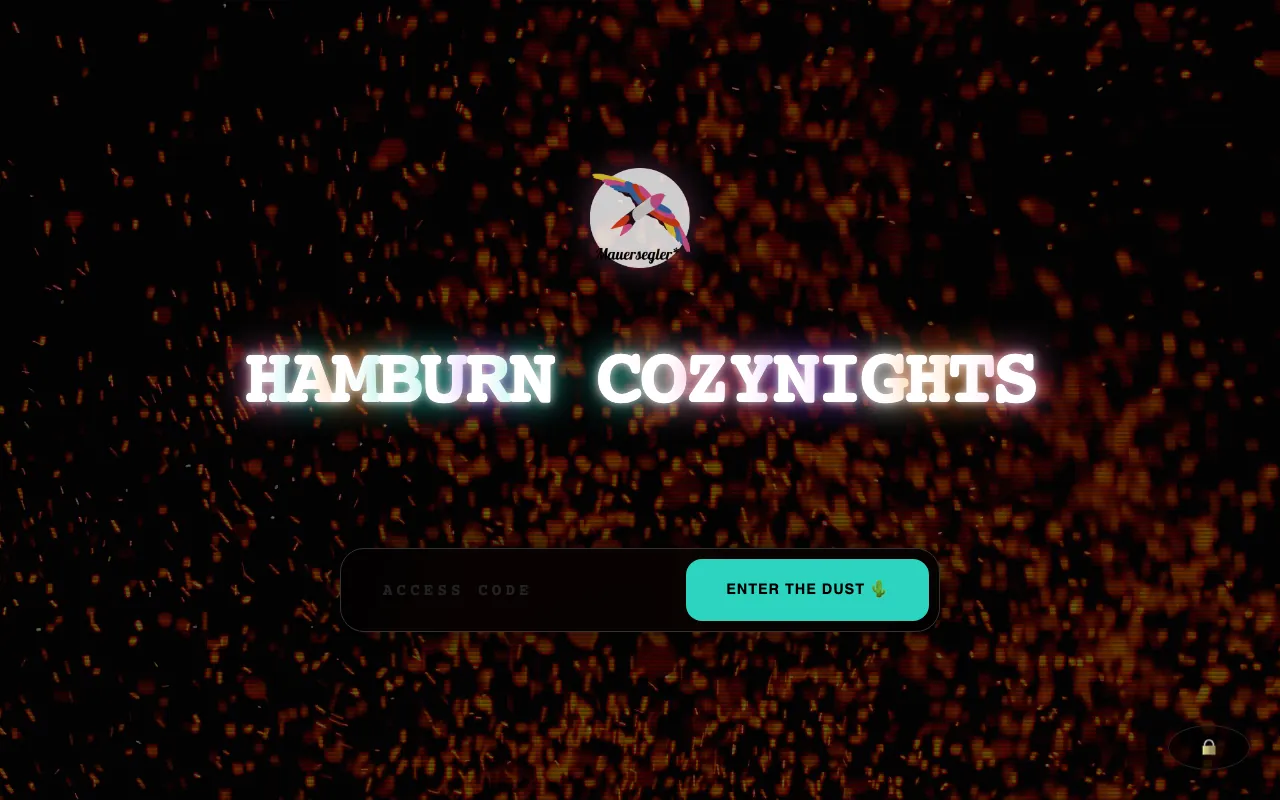
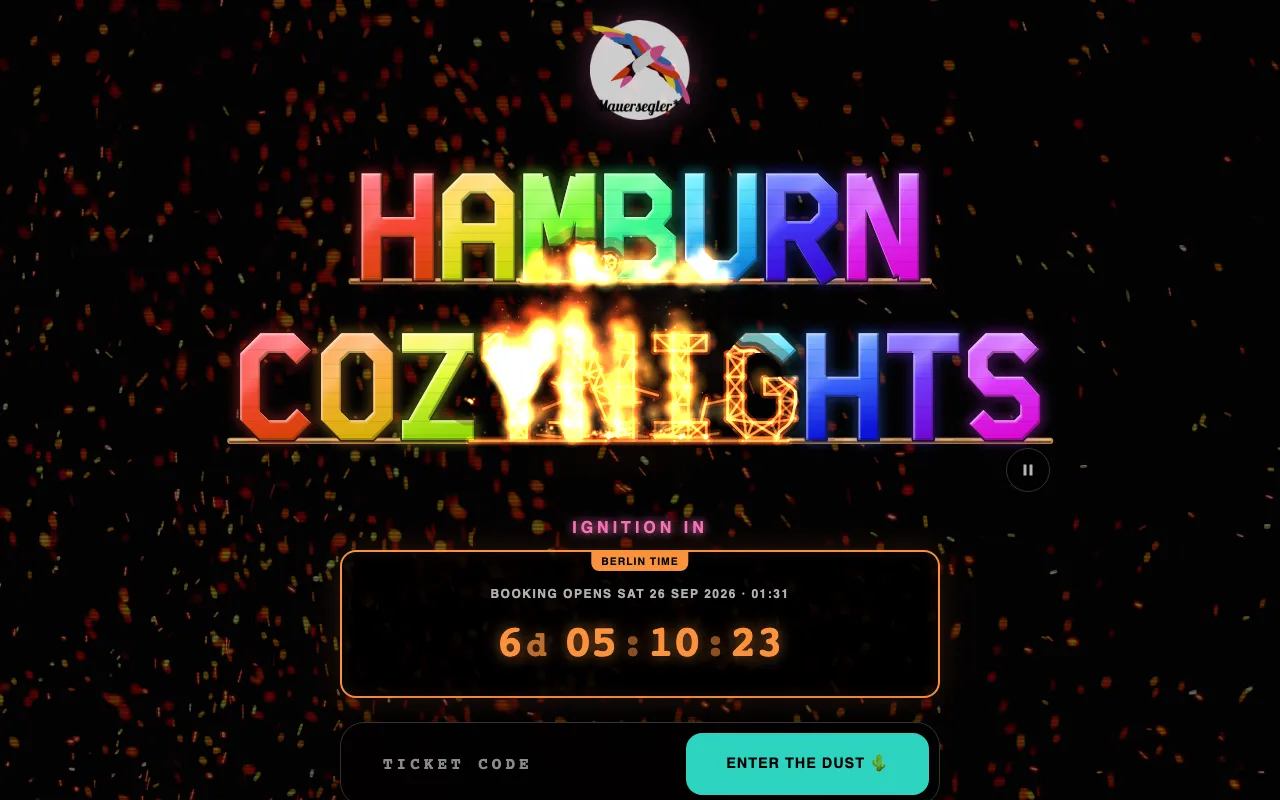
feat(start): big booking countdown between the title and the ticket-code field
The slim pill at the top of the start page was easy to miss. The start page
now shows the map's countdown box right above the ticket-code field, as wide
as the field: "IGNITION IN" with the opening time until booking opens, and
"BOOKING CLOSES IN" while Live Booking runs (pink; red in the last hour, like
the bar). When the time comes, the page reloads its data and switches by
itself.

CountdownTimer gets a `kind` prop (opens | closes) and takes its digit size
from --countdown-digits, so the map's box is unchanged; the date line wraps
evenly on phones. showCountdownBar() no longer shows the slim bar on `/`
(everywhere else as before) and the hero no longer reserves the bar's height.
Docs: the phases and booking guides say where the countdown appears; the
start page screenshot is current again.

diff --git a/hamburn-cozynights/src/lib/components/CountdownTimer.svelte b/hamburn-cozynights/src/lib/components/CountdownTimer.svelte
@@ -5,10 +5,19 @@
 	import CountdownDigits from './CountdownDigits.svelte';
 	import { formatBerlin, resyncDelay, toMs } from '$lib/booking-phase';
 
-	/** The big countdown on the guest map until booking opens. */
+	/**
+	 * The big countdown box: on the start page between the title and the
+	 * ticket-code field (until booking opens, and while it is live until it
+	 * closes), and on the guest map until booking opens. The page around it
+	 * sets the digit size with --countdown-digits.
+	 */
 	export let targetDate: string;
+	/** Counting down to the opening of booking, or to its closing. */
+	export let kind: 'opens' | 'closes' = 'opens';
 
 	const dispatch = createEventDispatcher<{ elapsed: void }>();
+	/** The last hour before booking closes turns the box red. */
+	const URGENT_MS = 60 * 60 * 1000;
 
 	let now = Date.now();
 	let interval: ReturnType<typeof setInterval> | undefined;
@@ -26,8 +35,9 @@
 
 	$: target = toMs(targetDate);
 	$: remaining = target === null ? 0 : target - now;
-	// Tell the page, so it can reload its data and open the booking; again
-	// after a while if the server hasn't opened yet (this clock runs ahead).
+	$: urgent = kind === 'closes' && remaining < URGENT_MS;
+	// Tell the page, so it can reload its data and open (or close) the booking;
+	// again after a while if the server hasn't switched yet (this clock runs ahead).
 	$: if (browser && target !== null && remaining <= 0) {
 		if (elapsedFor !== targetDate) {
 			elapsedFor = targetDate;
@@ -44,9 +54,11 @@
 	$: targetLabel = formatBerlin(targetDate);
 </script>
 
-<div class="countdown-wrapper" in:fade>
+<div class="countdown-wrapper {kind}" class:urgent in:fade>
 	<div class="timezone-badge">BERLIN TIME</div>
-	<span class="label">BOOKING OPENS {targetLabel.toUpperCase()}</span>
+	<span class="label"
+		>{kind === 'closes' ? 'LIVE BOOKING ENDS' : 'BOOKING OPENS'} {targetLabel.toUpperCase()}</span
+	>
 	<span class="timer" role="timer" aria-live="off">
 		{#if target === null}
 			…
@@ -60,28 +72,41 @@
 
 <style>
 	.countdown-wrapper {
+		--accent: #fb923c;
+		--accent-rgb: 251, 146, 60;
 		display: flex;
 		flex-direction: column;
 		align-items: center;
 		background: rgba(0, 0, 0, 0.85);
 		padding: 1.75rem clamp(1rem, 5vw, 2.5rem) 1.25rem;
 		border-radius: 16px;
-		border: 2px solid #fb923c;
+		border: 2px solid var(--accent);
 		box-shadow:
-			0 0 30px rgba(251, 146, 60, 0.15),
-			inset 0 0 15px rgba(251, 146, 60, 0.1);
+			0 0 30px rgba(var(--accent-rgb), 0.15),
+			inset 0 0 15px rgba(var(--accent-rgb), 0.1);
 		min-width: min(240px, 100%);
 		max-width: 100%;
 		text-align: center;
 		position: relative;
 		overflow: hidden;
+		transition:
+			border-color 0.4s,
+			box-shadow 0.4s;
+	}
+	.countdown-wrapper.closes {
+		--accent: #f472b6;
+		--accent-rgb: 244, 114, 182;
+	}
+	.countdown-wrapper.urgent {
+		--accent: #f87171;
+		--accent-rgb: 248, 113, 113;
 	}
 	.timezone-badge {
 		position: absolute;
 		top: 0;
 		left: 50%;
 		transform: translateX(-50%);
-		background: #fb923c;
+		background: var(--accent);
 		color: #000;
 		font-size: 0.65rem;
 		font-weight: 900;
@@ -98,13 +123,15 @@
 		line-height: 1.5;
 		margin-top: 5px;
 		margin-bottom: 5px;
+		/* On phones the date wraps: two even lines, not a lonely "01:04". */
+		text-wrap: balance;
 	}
 	.timer {
-		font-size: clamp(1.25rem, 6.5vw, 1.75rem);
+		font-size: var(--countdown-digits, clamp(1.25rem, 6.5vw, 1.75rem));
 		font-weight: 900;
-		color: #fb923c;
+		color: var(--accent);
 		font-family: 'JetBrains Mono', monospace;
-		text-shadow: 0 0 15px rgba(251, 146, 60, 0.6);
+		text-shadow: 0 0 15px rgba(var(--accent-rgb), 0.6);
 		white-space: nowrap;
 	}
 </style>

diff --git a/hamburn-cozynights/src/routes/+page.svelte b/hamburn-cozynights/src/routes/+page.svelte
@@ -1,8 +1,11 @@
 <script lang="ts">
 	import { enhance } from '$app/forms';
+	import { invalidateAll } from '$app/navigation';
 	import { page } from '$app/stores';
 	import { onMount, tick } from 'svelte';
 	import { fade, fly } from 'svelte/transition';
+	import { countdownKind } from '$lib/booking-phase';
+	import CountdownTimer from '$lib/components/CountdownTimer.svelte';
 	import EffigyTitle from '$lib/components/EffigyTitle.svelte';
 	import LegalLinks from '$lib/components/LegalLinks.svelte';
 	import MadeInHamburg from '$lib/components/MadeInHamburg.svelte';
@@ -49,6 +52,12 @@
 	let isSubmitting = false;
 
 	$: errorMessage = clientError || (isSubmitting ? '' : (form?.error ?? ''));
+
+	// The big countdown between the title and the ticket-code field: until
+	// booking opens, and while it is live until it closes. It replaces the slim
+	// bar on this page (showCountdownBar). When it ends, the page data is
+	// reloaded and the server says which phase it is now.
+	$: countdown = countdownKind(data.booking.phase, data.booking.next);
 
 	// Guest pages send visitors here when the ticket-code cookie is missing or stale.
 	$: loginHint =
@@ -108,6 +117,19 @@
 		<div class="title-container">
 			<EffigyTitle bind:paused={motionPaused} />
 		</div>
+
+		{#if countdown && data.booking.next}
+			<div class="booking-countdown" in:fly={{ y: 20, delay: 750, duration: 600 }}>
+				<h2 class="countdown-heading">
+					{countdown === 'closes' ? 'BOOKING CLOSES IN' : 'IGNITION IN'}
+				</h2>
+				<CountdownTimer
+					targetDate={data.booking.next.at}
+					kind={countdown}
+					on:elapsed={() => invalidateAll()}
+				/>
+			</div>
+		{/if}
 
 		<div class="login-module" in:fly={{ y: 30, delay: 900, duration: 600 }}>
 			{#if loginHint && !errorMessage}
@@ -236,9 +258,8 @@
 <style>
 	.hero {
 		position: relative;
-		/* minus the booking countdown bar on top, if shown (+layout.svelte) */
-		min-height: calc(100vh - var(--booking-bar-height, 0px));
-		min-height: calc(100dvh - var(--booking-bar-height, 0px));
+		min-height: 100vh;
+		min-height: 100dvh;
 		width: 100%;
 		display: flex;
 		flex-direction: column;
@@ -304,6 +325,28 @@
 		position: relative;
 		width: 100%;
 		margin: clamp(0.5rem, 4vw, 2.5rem) 0 clamp(3.75rem, 9vh, 5.5rem);
+	}
+
+	/* The big booking countdown: between the title and the ticket-code field,
+	   as wide as the field. It replaces the slim bar on this page. */
+	.booking-countdown {
+		--countdown-digits: clamp(1.75rem, 8vw, 2.75rem);
+		width: 100%;
+		max-width: 600px;
+		display: flex;
+		flex-direction: column;
+		gap: 0.6rem;
+		margin-bottom: clamp(1.25rem, 3vh, 2rem);
+	}
+
+	/* Same laser look as the heading over the map's countdown. */
+	.countdown-heading {
+		margin: 0;
+		font-size: 1rem;
+		font-weight: 900;
+		letter-spacing: 4px;
+		color: #f472b6;
+		text-shadow: 0 0 10px currentColor;
 	}
 
 	.login-module {

diff --git a/hamburn-cozynights/tests/booking-phase.test.ts b/hamburn-cozynights/tests/booking-phase.test.ts
@@ -298,7 +298,7 @@ describe('what guests see of the window', () => {
 		);
 	});
 
-	it('shows the slim bar everywhere but on the staging map, which counts down itself', () => {
+	it('shows the slim bar everywhere but where the page counts down itself', () => {
 		const opens = nextTransition(armed, NOW);
 		expect(showCountdownBar('staging', opens, '/map')).toBe(false);
 		expect(showCountdownBar('staging', opens, '/house/x')).toBe(true);
@@ -307,6 +307,10 @@ describe('what guests see of the window', () => {
 		const closes = nextTransition({ ...armed, basePhase: 'live', opensAt: at(-DAY) }, NOW);
 		expect(showCountdownBar('live', closes, '/map')).toBe(true);
 		expect(showCountdownBar('staging', null, '/house/x')).toBe(false);
+		// the start page shows the big countdown above the ticket-code field, both kinds
+		expect(showCountdownBar('staging', opens, '/')).toBe(false);
+		expect(showCountdownBar('closed', opens, '/')).toBe(false);
+		expect(showCountdownBar('live', closes, '/')).toBe(false);
 	});
 
 	it('words the own-spot note by phase', () => {

diff --git a/hamburn-cozynights/src/lib/booking-phase.ts b/hamburn-cozynights/src/lib/booking-phase.ts
@@ -143,9 +143,10 @@ export function openingCountdownAt(
 }
 
 /**
- * Whether the slim countdown bar shows on a page. The map draws its own big
- * "IGNITION IN" countdown, but only in Staging: in Closed with a later window
- * armed, the bar is the only countdown it has.
+ * Whether the slim countdown bar shows on a page. The start page always draws
+ * the big countdown itself (above the ticket-code field), the map only its
+ * "IGNITION IN" in Staging: in Closed with a later window armed, the bar is
+ * the only countdown the map has.
  */
 export function showCountdownBar(
 	phase: BookingPhase,
@@ -153,8 +154,8 @@ export function showCountdownBar(
 	pathname: string
 ): boolean {
 	const kind = countdownKind(phase, next);
-	if (kind === 'closes') return true;
-	return kind === 'opens' && !(phase === 'staging' && pathname === '/map');
+	if (!kind || pathname === '/') return false;
+	return kind === 'closes' || !(phase === 'staging' && pathname === '/map');
 }
 
 /**

diff --git a/hamburn-cozynights/src/routes/+layout.svelte b/hamburn-cozynights/src/routes/+layout.svelte
@@ -20,7 +20,7 @@
 	// to a QR code) for a while: no WebGL context and no 19 endless animations.
 	const PLAIN_PAGES = /^\/(legal-notice|privacy|booking-rules|pass|admin\/check)(\/|$)/;
 	let ambient = $derived(!PLAIN_PAGES.test(page.url.pathname));
-	// The map shows the big "IGNITION IN" countdown itself while it is Staging.
+	// The start page always shows the big countdown itself, the map while it is Staging.
 	let bar = $derived(
 		showCountdownBar(data.booking?.phase ?? 'staging', data.booking?.next, page.url.pathname)
 	);

diff --git a/docs/guide/phases.md b/docs/guide/phases.md
@@ -45,7 +45,7 @@ During Live Booking and after booking closed, houses without any active spot don
 ![Staging map with the countdown](../assets/screenshots/guest-map-staging.webp)
 
 <!-- audience:public -->
-The crew plans when booking opens and when it closes. Guests see both moments as countdowns: **IGNITION IN** on the map before booking opens, and a slim bar at the top of every page. Tap the bar for the exact time. While booking is live, the bar counts down to the closing time, and it turns red in the last hour. When a countdown ends, the page opens or locks by itself; there's no need to reload.
+The crew plans when booking opens and when it closes. Guests see both moments as countdowns: **IGNITION IN** on the start page (right above the ticket-code field) and on the map before booking opens, and a slim bar at the top of every other page. Tap the bar for the exact time. While booking is live, the countdown runs to the closing time (big on the start page, slim on every other page), and it turns red in the last hour. When a countdown ends, the page opens or locks by itself; there's no need to reload.
 <!-- /audience -->
 <!-- audience:admin -->
 Everything about the phase sits in one panel of the [Control Center](../admin/), right under the header: **🎟 BOOKING WINDOW**. Its summary line shows the phase, the next switch with a countdown, and whether the timer is armed. Click it to unfold:

diff --git a/docs/guide/booking.md b/docs/guide/booking.md
@@ -5,7 +5,7 @@ All you need is the **ticket code** from your Hamburn ticket. There is no accoun
 Beds come with **Indoor memberships** only. Camper memberships (camper or tent) don't include a bed and don't need CozyNights.
 
 > [!NOTE] Booking opens and closes at set times
-> Before booking opens, the map stays blurred and a countdown shows when it starts. You can already sign in with your code. While booking is open, a slim countdown at the top of every page shows when it closes; after that, spots are final.
+> Before booking opens, the start page and the (still blurred) map count down to the start. You can already sign in with your code. While booking is open, a countdown on every page shows when it closes; after that, spots are final.
 
 ## At a glance
 
